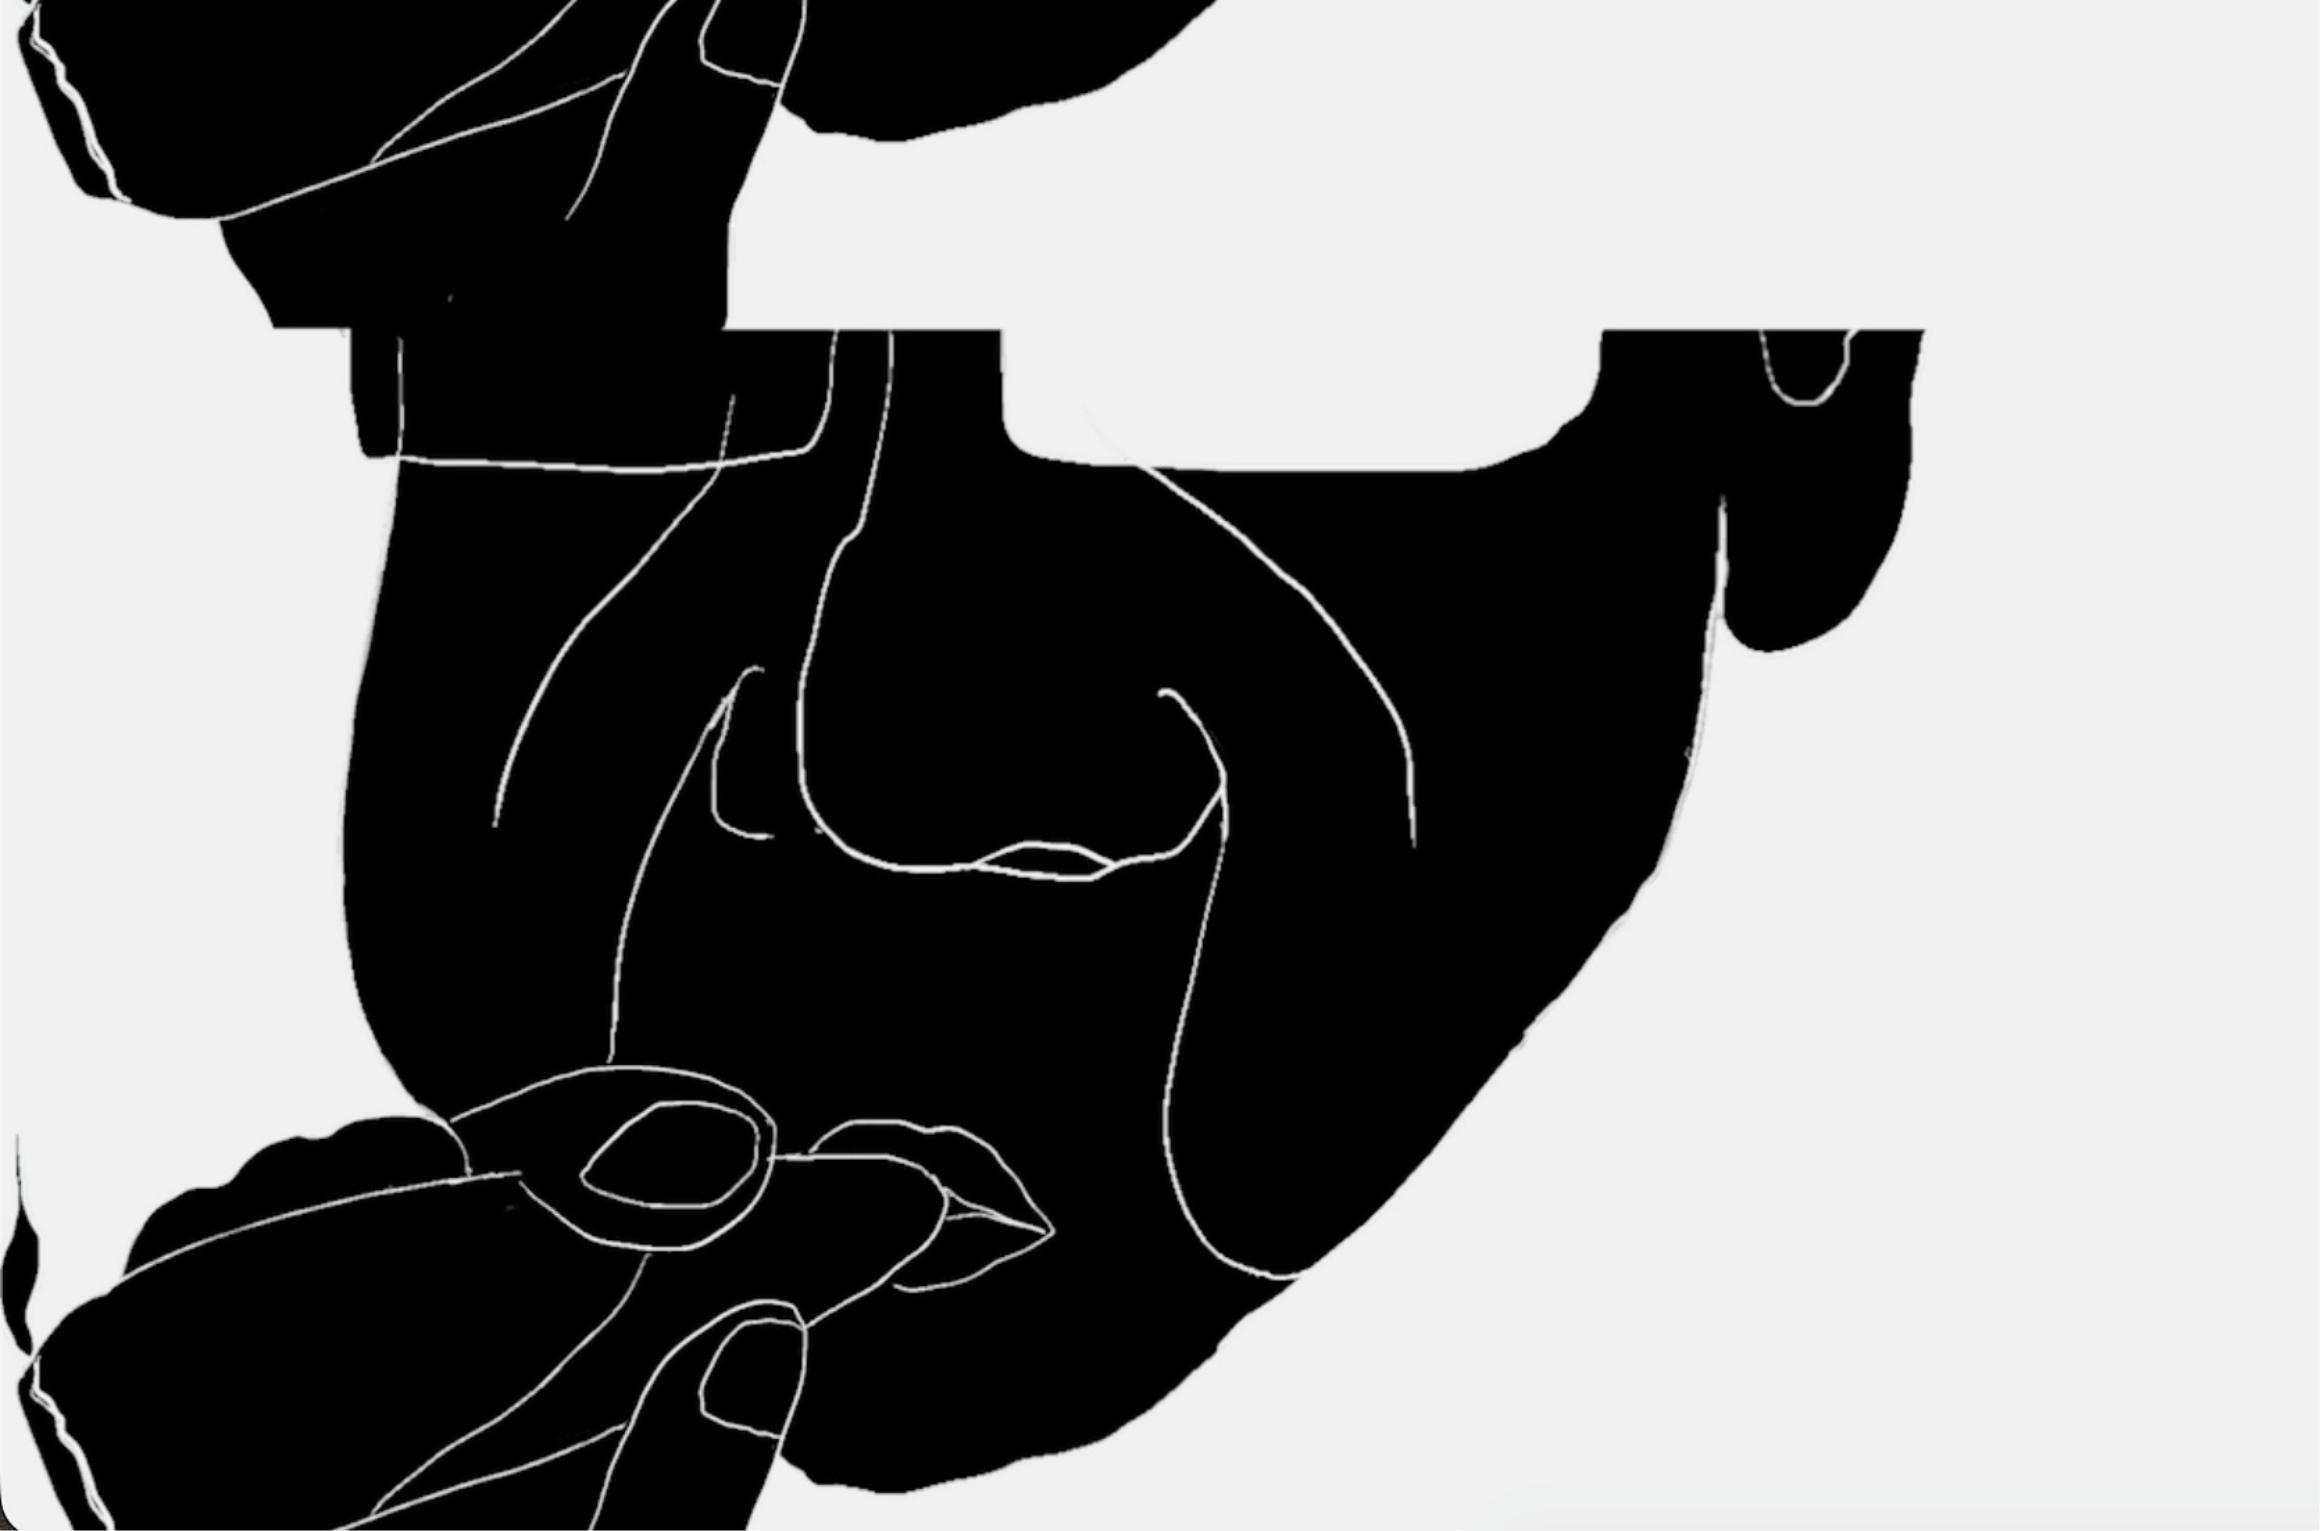
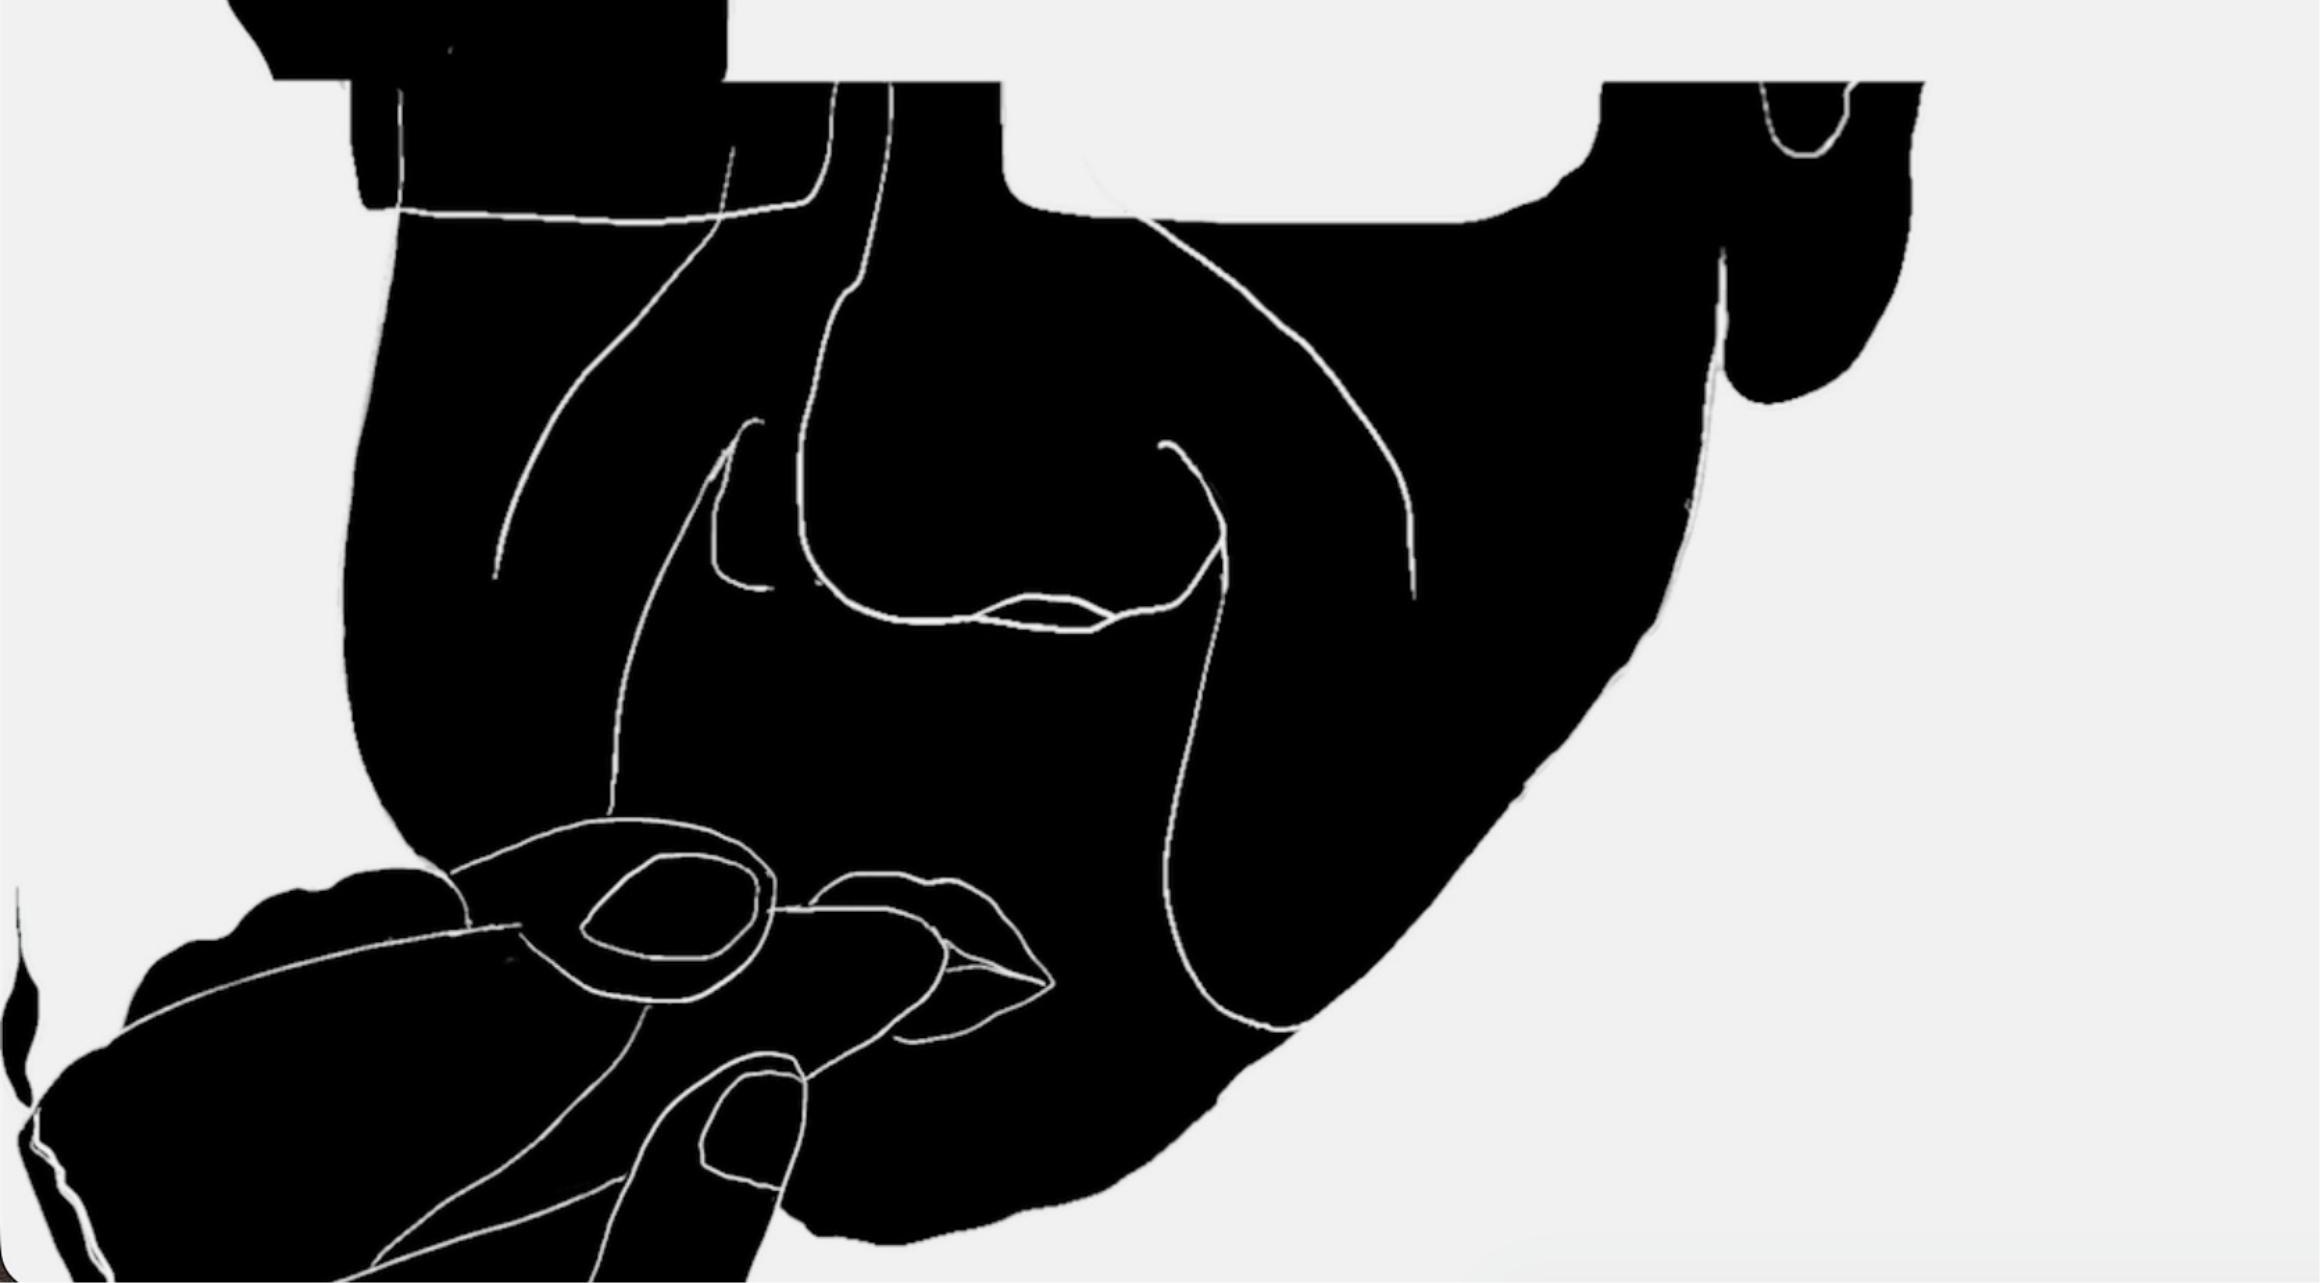
Röhren-Bühne: grafische Sequenz oben beschneiden (Format an TV-Closeup angleichen), Jahr 2024 eintragen

Changed region(s): [[0.0, 0.0, 0.8379, 1.0], [0.5586, 0.3429, 0.6207, 0.53], [0.2172, 0.0, 0.2483, 0.0312]]

diff --git a/lib/projects.ts b/lib/projects.ts
@@ -119,7 +119,7 @@ export const projects: Project[] = [
     tag: "Audiovisuelle Animation · Uni-Projekt",
     kunde: "Eigenprojekt (Uni-Projekt)",
     rolle: "Konzept, Video & Animation",
-    jahr: "Jahr eintragen",
+    jahr: "2024",
     leistungen: "Konzept, Videoproduktion, Bühnenkonzept",
     aufgabe:
       "Für lange Live-Auftritte wie DJ-Sets sollte ein visuelles Konzept entstehen, das über einen klassischen Screen hinausgeht und selbst Teil der Bühne wird.",
@@ -131,7 +131,7 @@ export const projects: Project[] = [
     gallery: [
       { slotId: "detail-1", ratio: "16/9", span2: true, src: "/projects/abgabe/still-scattered.jpg", caption: "Filmstill: frei im Raum schwebende Röhrenfernseher", placeholder: "Filmstill hier ablegen" },
       { slotId: "detail-2", ratio: "3887/2150", src: "/projects/abgabe/still-tv-closeup.jpg", caption: "Filmstill: Close-up eines Röhrenfernsehers", placeholder: "Foto (Hochformat) hier ablegen" },
-      { slotId: "detail-3", ratio: "2320/1531", src: "/projects/abgabe/still-graphic-hand.jpg", caption: "Filmstill: grafische Sequenz", placeholder: "Foto (Hochformat) hier ablegen" },
+      { slotId: "detail-3", ratio: "2320/1283", src: "/projects/abgabe/still-graphic-hand.jpg", caption: "Filmstill: grafische Sequenz", placeholder: "Foto (Hochformat) hier ablegen" },
     ],
     closingSlotId: "detail-4",
     closingCaption: "Filmstill: Röhrenfernseher in surrealer Unterwasser-Szenerie",
